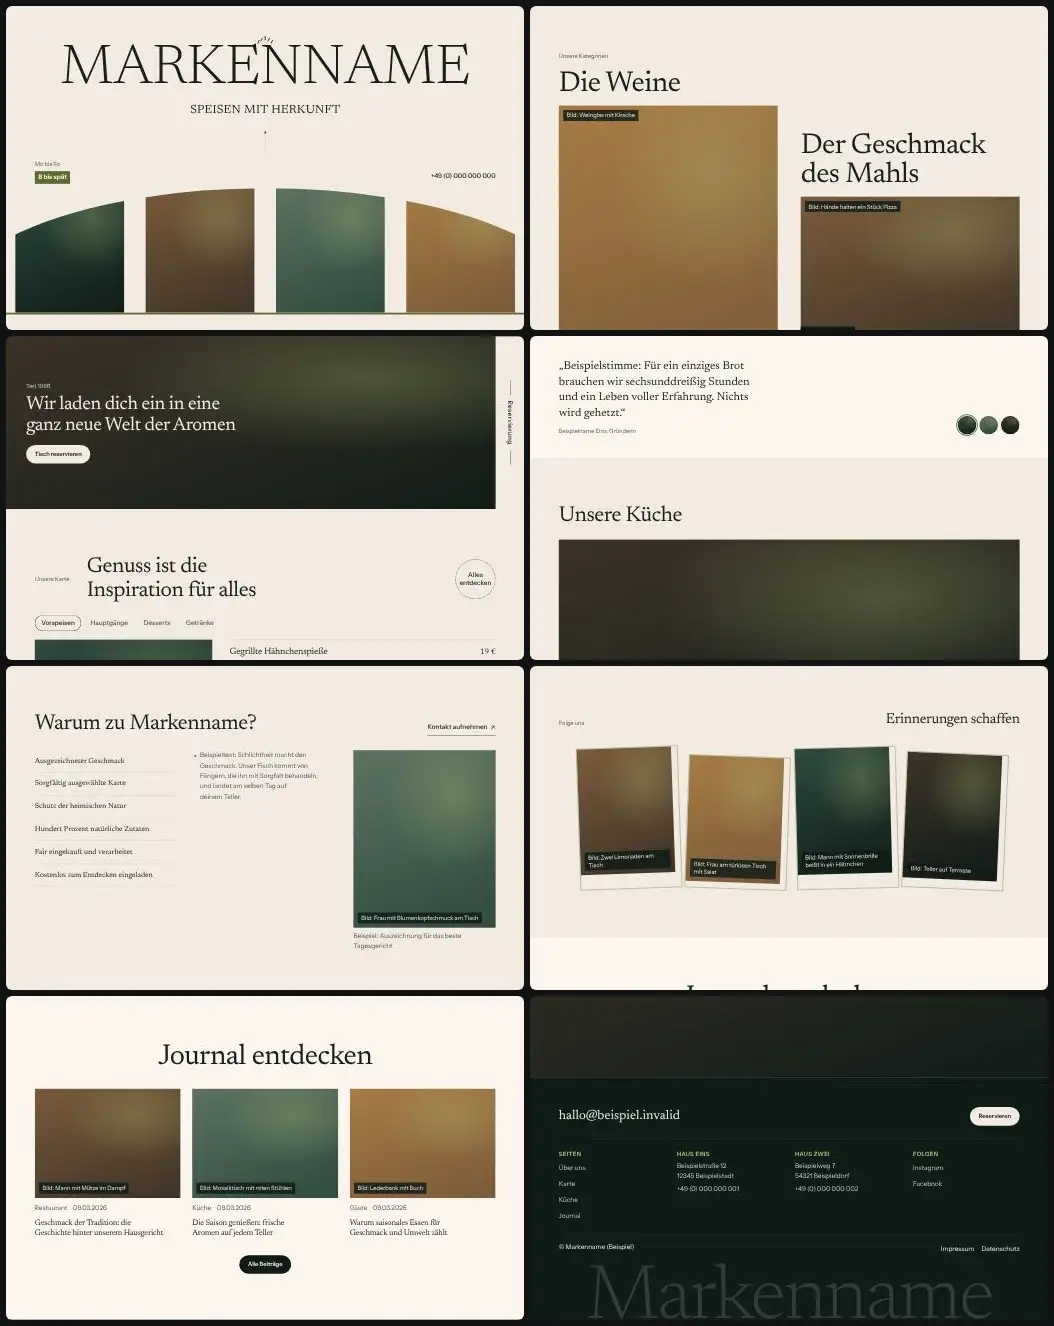
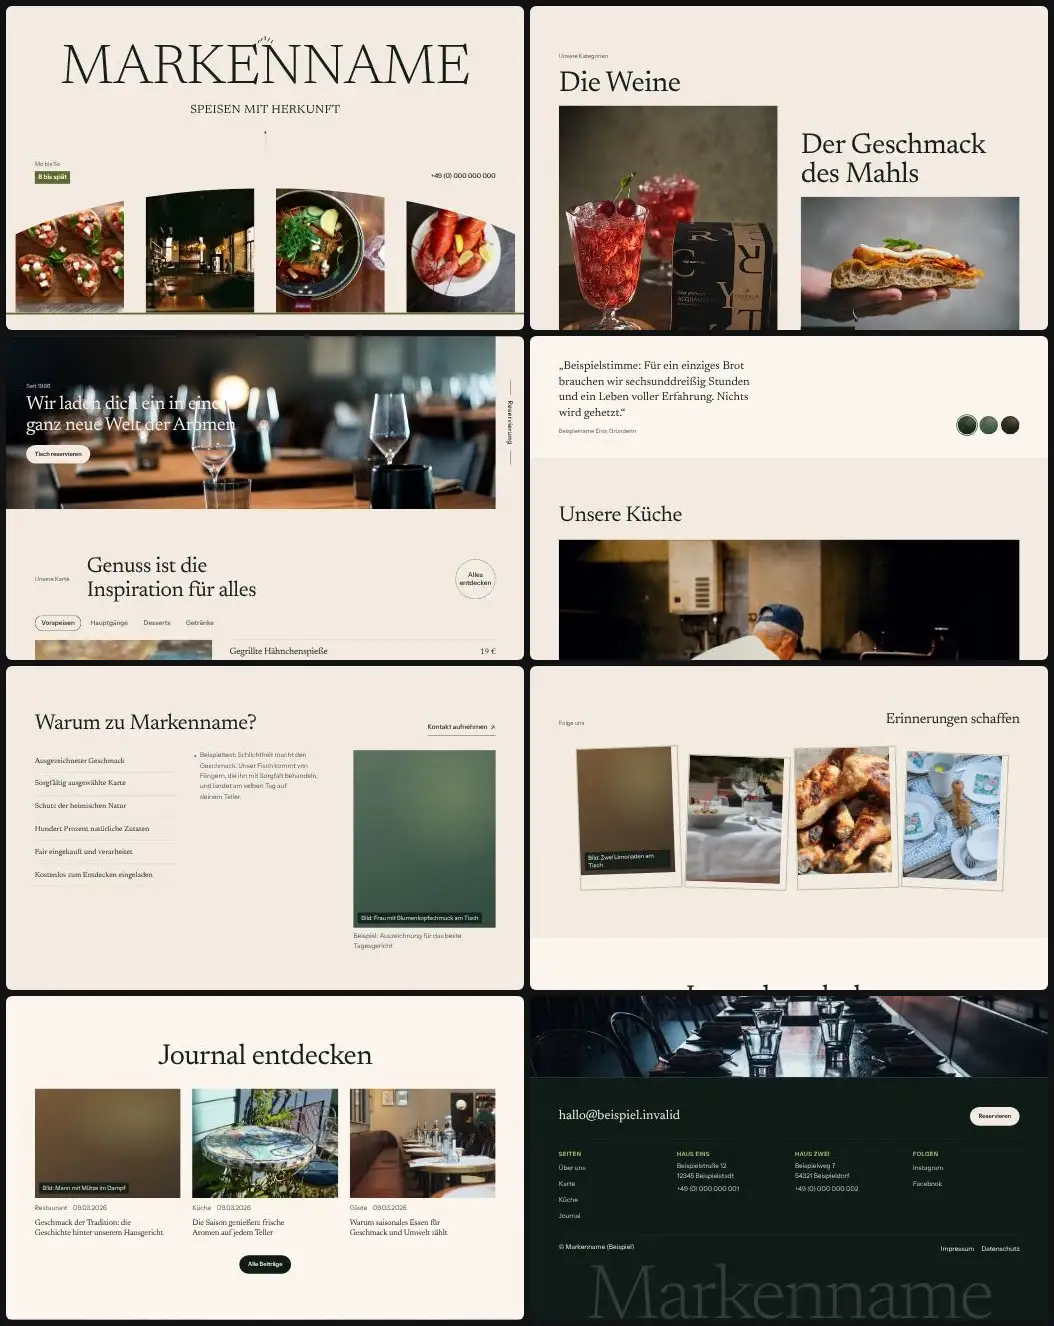
Bibliothek t36: Beispielfotos (Unsplash) eingebaut, Vorschaubilder neu erzeugt
Claude-Session: https://claude.ai/code/session_01DoGuL1bwF3ewggMgZ4Cpvd

diff --git a/skills/webdesign-conversion/assets/vorlagen/bibliothek/t36/index.html b/skills/webdesign-conversion/assets/vorlagen/bibliothek/t36/index.html
@@ -57,16 +57,16 @@
     <div class="streifen__kurve">
       <div class="band" aria-label="Gerichte und Gäste im Haus">
         <div class="band__spur">
-          <div class="bild bild--a" data-platzhalter="Bild: Frau isst Bruschetta" aria-hidden="true"></div>
-          <div class="bild bild--b" data-platzhalter="Bild: Gastraum mit Barlicht" aria-hidden="true"></div>
-          <div class="bild bild--c" data-platzhalter="Bild: Schale mit Fisch und Zitrone" aria-hidden="true"></div>
-          <div class="bild bild--d" data-platzhalter="Bild: Hummer auf dunklem Teller" aria-hidden="true"></div>
+          <div class="bild bild--a"><img src="bilder/bruschetta-auf-holzbrett.webp" width="800" height="543" alt="Bruschetta mit Tomaten und Basilikum auf einem Holzbrett" loading="lazy" decoding="async"></div>
+          <div class="bild bild--b"><img src="bilder/gastraum-mit-warmem-licht.webp" width="1000" height="670" alt="Schummriger Gastraum mit Tischen und Stühlen" loading="lazy" decoding="async"></div>
+          <div class="bild bild--c"><img src="bilder/fisch-in-der-pfanne-mit-zitrone.webp" width="800" height="600" alt="Lachsfilet mit Gemüse und Zitrone in einer Pfanne" loading="lazy" decoding="async"></div>
+          <div class="bild bild--d"><img src="bilder/hummer-auf-weissem-teller.webp" width="800" height="533" alt="Roter Hummer mit Zitrone auf einem weißen Teller" loading="lazy" decoding="async"></div>
         </div>
         <div class="band__spur" aria-hidden="true">
-          <div class="bild bild--a" data-platzhalter="Bild: Frau isst Bruschetta" aria-hidden="true"></div>
-          <div class="bild bild--b" data-platzhalter="Bild: Gastraum mit Barlicht" aria-hidden="true"></div>
-          <div class="bild bild--c" data-platzhalter="Bild: Schale mit Fisch und Zitrone" aria-hidden="true"></div>
-          <div class="bild bild--d" data-platzhalter="Bild: Hummer auf dunklem Teller" aria-hidden="true"></div>
+          <div class="bild bild--a" aria-hidden="true"><img src="bilder/bruschetta-auf-holzbrett.webp" width="800" height="543" alt="" loading="lazy" decoding="async"></div>
+          <div class="bild bild--b" aria-hidden="true"><img src="bilder/gastraum-mit-warmem-licht.webp" width="1000" height="670" alt="" loading="lazy" decoding="async"></div>
+          <div class="bild bild--c" aria-hidden="true"><img src="bilder/fisch-in-der-pfanne-mit-zitrone.webp" width="800" height="600" alt="" loading="lazy" decoding="async"></div>
+          <div class="bild bild--d" aria-hidden="true"><img src="bilder/hummer-auf-weissem-teller.webp" width="800" height="533" alt="" loading="lazy" decoding="async"></div>
         </div>
       </div>
     </div>
@@ -110,17 +110,17 @@
       <div class="kat__spalte">
         <article data-zeig>
           <h2 class="kat__titel">Die Weine</h2>
-          <div class="kat__bild"><div class="bild bild--d" data-platzhalter="Bild: Weinglas mit Kirsche" role="img" aria-label="Platzhalter für ein Foto: Weinglas mit Kirsche"></div><a class="kat__marke" href="#karte" aria-label="Die Weine: Details"><span>01</span><i aria-hidden="true"></i><span>Details</span></a></div>
+          <div class="kat__bild"><div class="bild bild--d"><img src="bilder/cocktail-mit-kirschen.webp" width="800" height="533" alt="Rotes Getränk mit Kirsche im Stielglas" loading="lazy" decoding="async"></div><a class="kat__marke" href="#karte" aria-label="Die Weine: Details"><span>01</span><i aria-hidden="true"></i><span>Details</span></a></div>
         </article>
         <article data-zeig>
           <h2 class="kat__titel">Unsere Desserts</h2>
-          <div class="kat__bild"><div class="bild bild--f" data-platzhalter="Bild: Dessert auf grauem Teller mit Wasserglas" role="img" aria-label="Platzhalter für ein Foto: Dessert auf grauem Teller mit Wasserglas"></div><a class="kat__marke" href="#karte" aria-label="Unsere Desserts: Details"><span>03</span><i aria-hidden="true"></i><span>Details</span></a></div>
+          <div class="kat__bild"><div class="bild bild--f"><img src="bilder/dessert-auf-grauem-teller.webp" width="800" height="530" alt="Dessert auf einem grauen Teller" loading="lazy" decoding="async"></div><a class="kat__marke" href="#karte" aria-label="Unsere Desserts: Details"><span>03</span><i aria-hidden="true"></i><span>Details</span></a></div>
         </article>
       </div>
       <div class="kat__spalte kat__spalte--b">
         <article data-zeig>
           <h2 class="kat__titel">Der Geschmack des Mahls</h2>
-          <div class="kat__bild kat__bild--breit"><div class="bild bild--b" data-platzhalter="Bild: Hände halten ein Stück Pizza" role="img" aria-label="Platzhalter für ein Foto: Hände halten ein Stück Pizza"></div><a class="kat__marke" href="#karte" aria-label="Der Geschmack des Mahls: Details"><span>02</span><i aria-hidden="true"></i><span>Details</span></a></div>
+          <div class="kat__bild kat__bild--breit"><div class="bild bild--b"><img src="bilder/pizzastueck-in-der-hand.webp" width="800" height="533" alt="Hand hält ein Stück Fladenbrot mit Belag" loading="lazy" decoding="async"></div><a class="kat__marke" href="#karte" aria-label="Der Geschmack des Mahls: Details"><span>02</span><i aria-hidden="true"></i><span>Details</span></a></div>
         </article>
         <p class="kat__fuss" data-zeig><a class="textlink" href="#karte">Zur Hauptkarte <svg width="16" height="16" aria-hidden="true" focusable="false"><use href="#i-arrow-up-right"/></svg></a></p>
       </div>
@@ -129,7 +129,7 @@
 </section>
 
 <section class="banner dunkel" id="reservierung" aria-labelledby="h-banner">
-  <div class="bild bild--e" data-platzhalter="Bild: Dunkler Gastraum mit gedeckten Tischen" aria-hidden="true"></div>
+  <div class="bild bild--e"><img src="bilder/dunkler-gastraum-mit-glaesern.webp" width="1600" height="1068" alt="Dunkler Gastraum mit gedeckten Holztischen und Gläsern" loading="lazy" decoding="async"></div>
   <div class="banner__text" data-zeig>
     <p class="etikett">Seit 1986</p>
     <h2 id="h-banner">Wir laden dich ein in eine ganz neue Welt der Aromen</h2>
@@ -148,22 +148,22 @@
     <div data-beispiel>
       <div class="tafel" id="tafel-0" data-tafel>
         <h3 class="tafel__name">Vorspeisen</h3>
-        <div class="bild bild--a" data-platzhalter="Bild: Spieße in Sauce auf dunklem Teller" aria-hidden="true"></div>
+        <div class="bild bild--a"><img src="bilder/spiesse-mit-sauce-auf-holzbrett.webp" width="800" height="533" alt="Gegrillte Spieße mit Beilagen und Sauce auf einem Holzbrett" loading="lazy" decoding="async"></div>
         <div class="zeilen"><div class="zeile"><div class="zeile__kopf"><h3>Gegrillte Hähnchenspieße</h3><span class="zeile__preis">19 €</span></div><p>Mit Avocado, Wasabi-Crème-fraîche und Mikrogrün.</p></div><div class="zeile"><div class="zeile__kopf"><h3>Garnelen und Hummer</h3><span class="zeile__preis">25 €</span></div><p>Mit Zitrone und Kräuteröl aus der Pfanne.</p></div><div class="zeile"><div class="zeile__kopf"><h3>Schweine-Hähnchen-Terrine</h3><span class="zeile__preis">18 €</span></div><p>Mit eingelegtem Rettich und Röstbrot.</p></div></div>
       </div>
       <div class="tafel" id="tafel-1" data-tafel>
         <h3 class="tafel__name">Hauptgänge</h3>
-        <div class="bild bild--b" data-platzhalter="Bild: Teller mit geschmorter Backe" aria-hidden="true"></div>
+        <div class="bild bild--b"><img src="bilder/geschmorte-backe-mit-brokkoli.webp" width="800" height="533" alt="Geschmortes Fleisch mit Brokkoli und Püree auf einem Teller" loading="lazy" decoding="async"></div>
         <div class="zeilen"><div class="zeile"><div class="zeile__kopf"><h3>Geschmorte Ochsenbacke</h3><span class="zeile__preis">32 €</span></div><p>Mit Selleriepüree und Rotweinjus.</p></div><div class="zeile"><div class="zeile__kopf"><h3>Lachs auf der Haut gebraten</h3><span class="zeile__preis">29 €</span></div><p>Mit Fenchel und Zitronenbutter.</p></div><div class="zeile"><div class="zeile__kopf"><h3>Gemüse aus dem Ofen</h3><span class="zeile__preis">21 €</span></div><p>Mit Kräutern, Tahini und Granatapfel.</p></div></div>
       </div>
       <div class="tafel" id="tafel-2" data-tafel>
         <h3 class="tafel__name">Desserts</h3>
-        <div class="bild bild--d" data-platzhalter="Bild: Dessert auf grauem Teller" aria-hidden="true"></div>
+        <div class="bild bild--d"><img src="bilder/dessert-mit-erdbeere-auf-weissem-teller.webp" width="800" height="554" alt="Dunkles Dessert mit Erdbeere auf einem weißen Teller" loading="lazy" decoding="async"></div>
         <div class="zeilen"><div class="zeile"><div class="zeile__kopf"><h3>Schokoladentörtchen</h3><span class="zeile__preis">11 €</span></div><p>Mit Meersalz und Sauerrahmeis.</p></div><div class="zeile"><div class="zeile__kopf"><h3>Beerenkompott</h3><span class="zeile__preis">9 €</span></div><p>Mit Vanillecreme und Mandel.</p></div><div class="zeile"><div class="zeile__kopf"><h3>Käseauswahl</h3><span class="zeile__preis">14 €</span></div><p>Mit Feigensenf und Nüssen.</p></div></div>
       </div>
       <div class="tafel" id="tafel-3" data-tafel>
         <h3 class="tafel__name">Getränke</h3>
-        <div class="bild bild--c" data-platzhalter="Bild: Gläser auf dem Tresen" aria-hidden="true"></div>
+        <div class="bild bild--c"><img src="bilder/haengende-weinglaeser.webp" width="800" height="534" alt="Weingläser hängen über dem Tresen" loading="lazy" decoding="async"></div>
         <div class="zeilen"><div class="zeile"><div class="zeile__kopf"><h3>Hausgemachte Limonade</h3><span class="zeile__preis">5 €</span></div><p>Mit Kräutern der Saison.</p></div><div class="zeile"><div class="zeile__kopf"><h3>Weinbegleitung</h3><span class="zeile__preis">24 €</span></div><p>Drei Gläser, passend zum Menü.</p></div><div class="zeile"><div class="zeile__kopf"><h3>Kaffee und Tee</h3><span class="zeile__preis">4 €</span></div><p>Aus kleiner Rösterei und Manufaktur.</p></div></div>
       </div>
     </div>
@@ -191,7 +191,7 @@
     <div class="warum__kopf" style="margin-bottom:2rem">
       <h2 id="h-team" data-zeig>Unsere Küche</h2>
     </div>
-    <div class="bild bild--e" data-platzhalter="Bild: Hände eines Kochs mit Schale und Wok" role="img" aria-label="Platzhalter für ein Foto: Hände eines Kochs mit Schale und Wok" data-zeig="skala"></div>
+    <div class="bild bild--e" data-zeig="skala"><img src="bilder/koch-am-wok.webp" width="1000" height="667" alt="Koch in einer Restaurantküche am Wok" loading="lazy" decoding="async"></div>
     <div class="team__unten">
       <ul class="team__namen" data-beispiel>
         <li data-zeig><strong>Beispielname Eins</strong><span>Küchenchef</span></li>
@@ -228,7 +228,7 @@
 </section>
 
 <section class="heute dunkel" aria-labelledby="h-heute">
-  <div class="bild bild--a" data-platzhalter="Bild: Blaubeeren und Holz in Nahaufnahme" aria-hidden="true"></div>
+  <div class="bild bild--a"><img src="bilder/beeren-auf-holzloeffel.webp" width="800" height="533" alt="Heidelbeeren und Himbeeren auf einem Holzlöffel" loading="lazy" decoding="async"></div>
   <div class="heute__karte" data-zeig data-beispiel>
     <div class="heute__kopf"><h2 id="h-heute">Heute frisch und gefragt</h2><span class="heute__zahl">04</span></div>
     <ul class="heute__liste">
@@ -248,9 +248,9 @@
   </div>
   <div class="insta__spur" tabindex="0" role="group" aria-label="Bilder von Gästen, horizontal wischbar">
     <div class="foto"><div class="bild bild--b" data-platzhalter="Bild: Zwei Limonaden am Tisch" aria-hidden="true"></div></div>
-    <div class="foto"><div class="bild bild--d" data-platzhalter="Bild: Frau am türkisen Tisch mit Salat" aria-hidden="true"></div></div>
-    <div class="foto"><div class="bild bild--a" data-platzhalter="Bild: Mann mit Sonnenbrille beißt in ein Hähnchen" aria-hidden="true"></div></div>
-    <div class="foto"><div class="bild bild--e" data-platzhalter="Bild: Teller auf Terrasse" aria-hidden="true"></div></div>
+    <div class="foto"><div class="bild bild--d"><img src="bilder/gedeckter-tisch-terrasse.webp" width="800" height="533" alt="Gedeckter Tisch mit Weißgläsern und Schale im Freien" loading="lazy" decoding="async"></div></div>
+    <div class="foto"><div class="bild bild--a"><img src="bilder/gegrillte-haehnchenkeulen.webp" width="800" height="533" alt="Gegrillte Hähnchenkeulen auf einer Glasplatte" loading="lazy" decoding="async"></div></div>
+    <div class="foto"><div class="bild bild--e"><img src="bilder/gedeck-auf-holztisch-draussen.webp" width="800" height="534" alt="Gedeck mit Teller und Glas auf einem Holztisch im Freien" loading="lazy" decoding="async"></div></div>
   </div>
 </section>
 
@@ -259,15 +259,15 @@
     <h2 id="h-journal" data-zeig>Journal entdecken</h2>
     <ul class="beitraege" data-staffel>
       <li class="beitrag" data-zeig><a href="#journal"><div class="beitrag__huelle"><div class="bild bild--b" data-platzhalter="Bild: Mann mit Mütze im Dampf" aria-hidden="true"></div></div><p class="beitrag__meta"><span>Restaurant</span><span>09.03.2026</span></p><h3>Geschmack der Tradition: die Geschichte hinter unserem Hausgericht</h3></a></li>
-      <li class="beitrag" data-zeig><a href="#journal"><div class="beitrag__huelle"><div class="bild bild--c" data-platzhalter="Bild: Mosaiktisch mit roten Stühlen" aria-hidden="true"></div></div><p class="beitrag__meta"><span>Küche</span><span>09.03.2026</span></p><h3>Die Saison genießen: frische Aromen auf jedem Teller</h3></a></li>
-      <li class="beitrag" data-zeig><a href="#journal"><div class="beitrag__huelle"><div class="bild bild--d" data-platzhalter="Bild: Lederbank mit Buch" aria-hidden="true"></div></div><p class="beitrag__meta"><span>Gäste</span><span>09.03.2026</span></p><h3>Warum saisonales Essen für Geschmack und Umwelt zählt</h3></a></li>
+      <li class="beitrag" data-zeig><a href="#journal"><div class="beitrag__huelle"><div class="bild bild--c"><img src="bilder/mosaiktisch-im-garten.webp" width="800" height="532" alt="Runder Mosaiktisch im Garten" loading="lazy" decoding="async"></div></div><p class="beitrag__meta"><span>Küche</span><span>09.03.2026</span></p><h3>Die Saison genießen: frische Aromen auf jedem Teller</h3></a></li>
+      <li class="beitrag" data-zeig><a href="#journal"><div class="beitrag__huelle"><div class="bild bild--d"><img src="bilder/sitzbank-und-runde-tische.webp" width="800" height="534" alt="Lange Sitzbank und runde Tische in einem Gastraum" loading="lazy" decoding="async"></div></div><p class="beitrag__meta"><span>Gäste</span><span>09.03.2026</span></p><h3>Warum saisonales Essen für Geschmack und Umwelt zählt</h3></a></li>
     </ul>
     <p class="journal__fuss"><a class="knopf" href="#journal">Alle Beiträge</a></p>
   </div>
 </section>
 
 <section class="aufruf dunkel" aria-labelledby="h-aufruf">
-  <div class="bild bild--e" data-platzhalter="Bild: Leerer Gastraum mit gedeckten Tischen am Abend" aria-hidden="true"></div>
+  <div class="bild bild--e"><img src="bilder/leerer-gastraum-am-abend.webp" width="1600" height="1060" alt="Gedeckte Tische in einem leeren Gastraum am Abend" loading="lazy" decoding="async"></div>
   <div class="aufruf__innen" data-zeig>
     <p class="etikett">Mit Leidenschaft serviert</p>
     <h2 class="aufruf__titel" id="h-aufruf"><a href="#reservierung">Tisch buchen</a><span class="aufruf__trenner" aria-hidden="true">/</span><a href="#karte">Karte ansehen</a></h2>

diff --git a/skills/webdesign-conversion/assets/vorlagen/bibliothek/t36/BILDER.md b/skills/webdesign-conversion/assets/vorlagen/bibliothek/t36/BILDER.md
@@ -1,0 +1,38 @@
+# Bilder t36
+
+Alle Fotos von Unsplash, abgerufen am 25.11.2026. Titel und Lizenz stehen so auf der Seite des Fotos (Titel von Unsplash automatisch vergeben), als Fotograf ist das Unsplash Profil angegeben, weil die Seite den Namen nur als Profillink zeigte. Lizenz ist jeweils die Unsplash Lizenz.
+
+| Datei | Platz | Foto Titel | Fotograf (Profil) | Seite | Lizenz | Abruf |
+|---|---|---|---|---|---|---|
+| bruschetta-auf-holzbrett.webp | Band, Frau isst Bruschetta (nur das Gericht) | in Scheiben geschnittene Tomaten und grünes Gemüse auf braunem Holzschneidebrett (gekürzt) | @konstantinas | https://unsplash.com/photos/psrJ8EXbJFo | Unsplash Lizenz | 25.11.2026 |
+| gastraum-mit-warmem-licht.webp | Band, Gastraum mit Barlicht | ein schummriges Restaurant mit Tischen und Stühlen | @oliverguhr | https://unsplash.com/photos/EjHiN2KxTO4 | Unsplash Lizenz | 25.11.2026 |
+| fisch-in-der-pfanne-mit-zitrone.webp | Band, Schale mit Fisch und Zitrone | Lachsfilet mit Gemüse in einer Pfanne | @pecko | https://unsplash.com/photos/SdoxiQ5ZesU | Unsplash Lizenz | 25.11.2026 |
+| hummer-auf-weissem-teller.webp | Band, Hummer | roter Hummer auf weißer Keramikplatte | @davidtoddmccarty | https://unsplash.com/photos/OrTjocYe1b4 | Unsplash Lizenz | 25.11.2026 |
+| cocktail-mit-kirschen.webp | Kategorie Weine | ein Glas Wein auf einem Holztisch | @crystalweed | https://unsplash.com/photos/OmlPiPJzZh4 | Unsplash Lizenz | 25.11.2026 |
+| dessert-auf-grauem-teller.webp | Kategorie Desserts | Eine Frucht auf dem Teller | @handley4eu | https://unsplash.com/photos/TpxUkLWt1mY | Unsplash Lizenz | 25.11.2026 |
+| pizzastueck-in-der-hand.webp | Kategorie Hauptkarte | eine Person, die ein Sandwich hält | @lboccardo95 | https://unsplash.com/photos/TQtDGOW_B2E | Unsplash Lizenz | 25.11.2026 |
+| dunkler-gastraum-mit-glaesern.webp | Banner, dunkler Gastraum | clear drinking glass on brown wooden table | @carlosaranda | https://unsplash.com/photos/W0o4G4gOMAo | Unsplash Lizenz | 25.11.2026 |
+| spiesse-mit-sauce-auf-holzbrett.webp | Karte, Vorspeisen | Nahaufnahme von gegrilltem Fleisch mit Soße | @piratastudiofilm | https://unsplash.com/photos/qt6b5042lrw | Unsplash Lizenz | 25.11.2026 |
+| geschmorte-backe-mit-brokkoli.webp | Karte, Hauptgänge | ein weißer Teller mit Fleisch und Gemüse | @ethiopian_photo_style | https://unsplash.com/photos/qT8k4uUOpo4 | Unsplash Lizenz | 25.11.2026 |
+| dessert-mit-erdbeere-auf-weissem-teller.webp | Karte, Desserts | Gebäck auf weißem Teller | @louishansel | https://unsplash.com/photos/HEp8BwW7r84 | Unsplash Lizenz | 25.11.2026 |
+| haengende-weinglaeser.webp | Karte, Getränke | gestapeltes Weinglas-Set hängend | @chuttersnap | https://unsplash.com/photos/DOBIZ_sqgXM | Unsplash Lizenz | 25.11.2026 |
+| koch-am-wok.webp | Zeile, Hände eines Kochs (Koch von hinten im Profil) | Koch Koch in einer gewerblichen Küche | @flvision_ | https://unsplash.com/photos/xEDl9s_VFXg | Unsplash Lizenz | 25.11.2026 |
+| beeren-auf-holzloeffel.webp | Blaubeeren Nahaufnahme | schwarze Beeren auf braunem Holzlöffel | @magnoliasagestudio | https://unsplash.com/photos/mUMB4DgGHrs | Unsplash Lizenz | 25.11.2026 |
+| gedeckter-tisch-terrasse.webp | Galerie, Tisch am türkisen Tisch | Tischdeckung mit Speise- und Weingläsern draußen | @tommasoubezio | https://unsplash.com/photos/5TQ2ur9HhXY | Unsplash Lizenz | 25.11.2026 |
+| gegrillte-haehnchenkeulen.webp | Galerie, Hähnchen | gebratenes Hähnchen auf klarer Glasplatte | @catrionaobrian | https://unsplash.com/photos/jMKxaakIKfQ | Unsplash Lizenz | 25.11.2026 |
+| gedeck-auf-holztisch-draussen.webp | Galerie, Teller auf Terrasse | weiße Keramikplatte neben klarem Trinkglas auf dem Tisch (gekürzt) | @natwestrose | https://unsplash.com/photos/_LgY2LTJRgM | Unsplash Lizenz | 25.11.2026 |
+| mosaiktisch-im-garten.webp | Galerie, Mosaiktisch | Ein runder Mosaiktisch mit bunten Fliesenmustern neben (gekürzt) | @naturalist_boat | https://unsplash.com/photos/UKQc_X0SQZs | Unsplash Lizenz | 25.11.2026 |
+| sitzbank-und-runde-tische.webp | Galerie, Lederbank | Leere Restauranttische mit Flaschen und Gläsern | @i_am_vitality | https://unsplash.com/photos/PPbHT8jKj88 | Unsplash Lizenz | 25.11.2026 |
+| leerer-gastraum-am-abend.webp | Galerie, leerer Gastraum | Klarglastasse auf braunem Holztisch | @amseaman | https://unsplash.com/photos/sQopSb2K0CU | Unsplash Lizenz | 25.11.2026 |
+
+## Hinweise
+
+* Titel von Unsplash sind teils unpassend (zum Beispiel Wein für ein Cocktailfoto), die Alt Texte beschreiben, was im Bild zu sehen ist.
+* Mehrere Beschriftungen und Platzhaltertexte weichen vom Foto ab (Frau isst Bruschetta, Zwei Limonaden, Mosaiktisch mit roten Stühlen, Lederbank mit Buch); die Bilder zeigen nur die Sache, keine Personen. Vor Abgabe angleichen.
+* Die zweite Bandspur (aria-hidden) trägt alt leer und dieselben Bilder.
+* Der Text über dem Banner liegt teils auf Glas, die Lesbarkeit ist nicht nachgemessen.
+* Alle Bilder sind Beispielfotos und vor Abgabe zu ersetzen.
+
+## Offen
+
+* Frau mit Getränk und Smartphone, Porträts (drei Plätze), Frau mit Blumenkopfschmuck, Zwei Limonaden am Tisch, Mann mit Mütze im Dampf: bewusst offen, keine echten Personen und keine passenden Motive gefunden.
